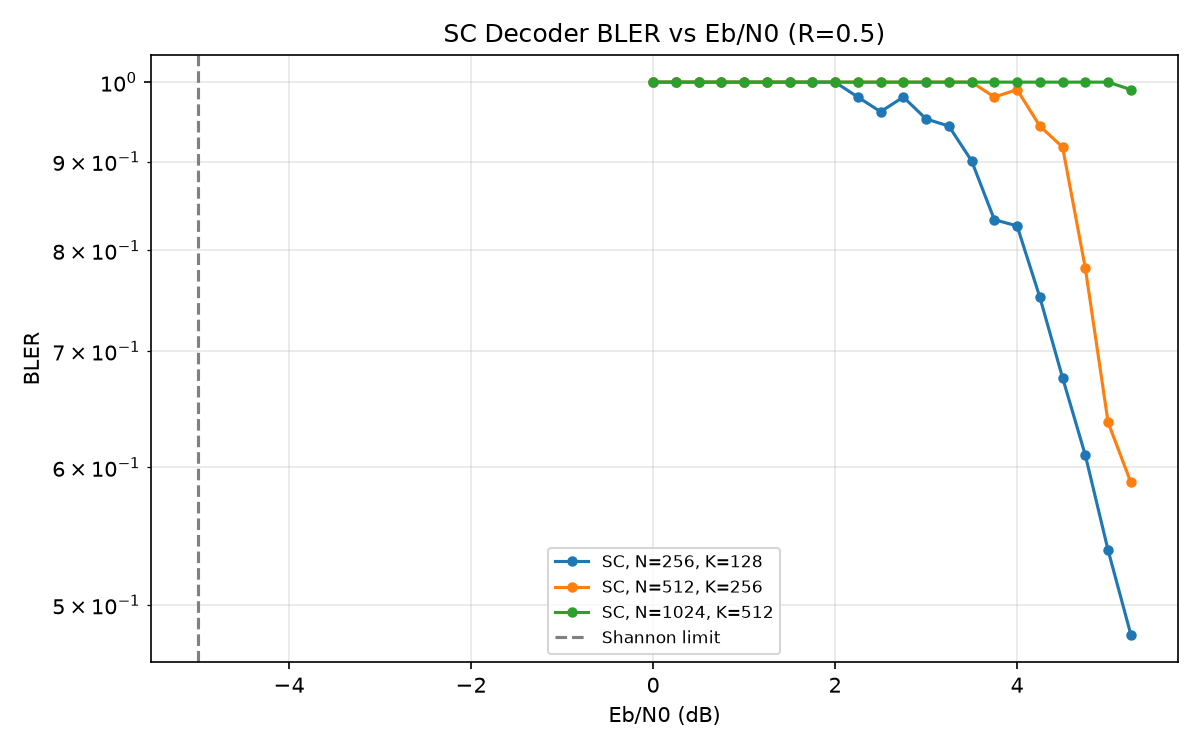
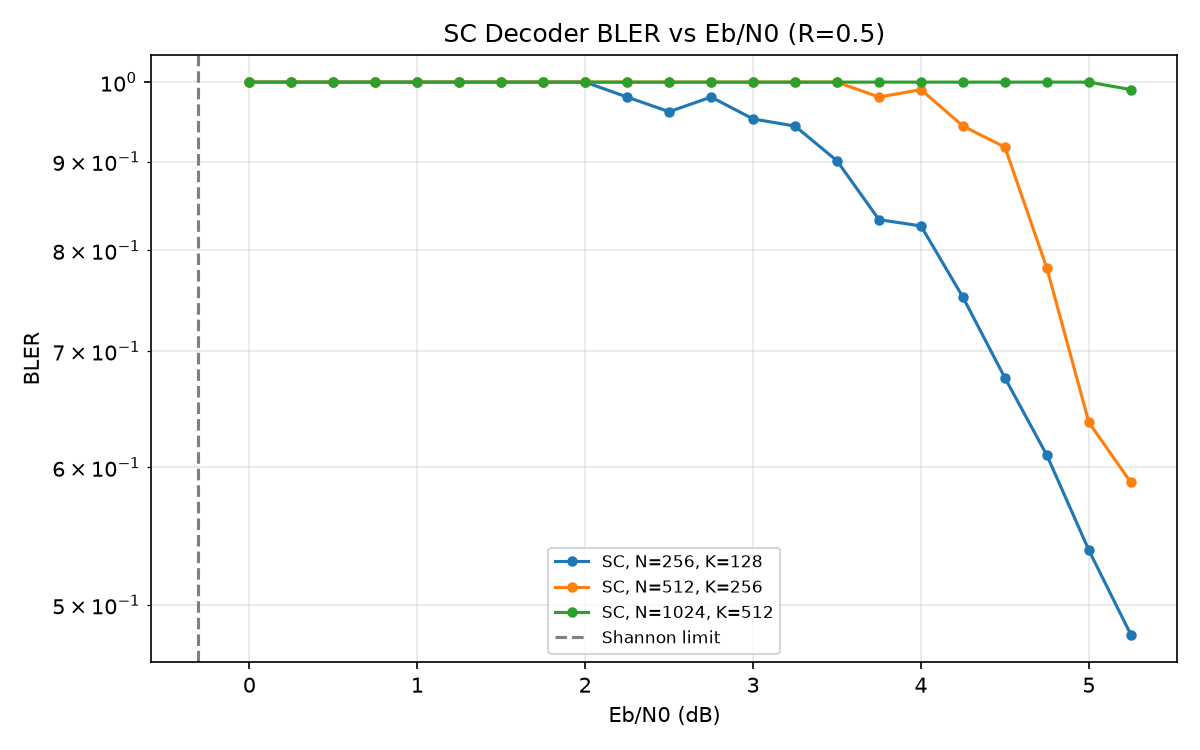
Fix BPSK capacity integral for stable Shannon limit reference

diff --git a/polar_codes/utils.py b/polar_codes/utils.py
@@ -61,23 +61,30 @@ def load_results_csv(filepath):
     return results
 
 
-def _log2_1_plus_exp(x):
-    """数值稳定的 log2(1 + exp(x))"""
-    if x > 30:
-        return x / np.log(2)
-    if x < -30:
-        return np.exp(x) / np.log(2)
-    return np.log1p(np.exp(x)) / np.log(2)
+def _log2_1_plus_exp(a):
+    """数值稳定的 log2(1 + exp(a))"""
+    if a > 30:
+        return a / np.log(2)
+    if a < -30:
+        return np.exp(a) / np.log(2)
+    if a > 0:
+        return (a + np.log1p(np.exp(-a))) / np.log(2)
+    return np.log1p(np.exp(a)) / np.log(2)
 
 
 def _bpsk_capacity_scalar(snr_linear):
-    """单点 BPSK 容量（bits/channel use）"""
+    """
+    单点 BPSK 容量（bits/channel use）。
+    snr_linear = 2*R*Eb/N0（线性）
+  使用高斯数值积分：C = 1 - E_y[log2(1 + exp(-2*snr*y^2))]
+    """
+    snr = snr_linear
 
     def integrand(y):
-        x = -2.0 * snr_linear * y
-        return _log2_1_plus_exp(x) * np.exp(-0.5 * y * y)
+        a = -2.0 * snr * y * y
+        return _log2_1_plus_exp(a) * np.exp(-0.5 * y * y)
 
-    val, _ = integrate.quad(integrand, -50, 50, limit=200)
+    val, _ = integrate.quad(integrand, -20, 20, limit=200)
     val /= np.sqrt(2.0 * np.pi)
     return 1.0 - val
 
